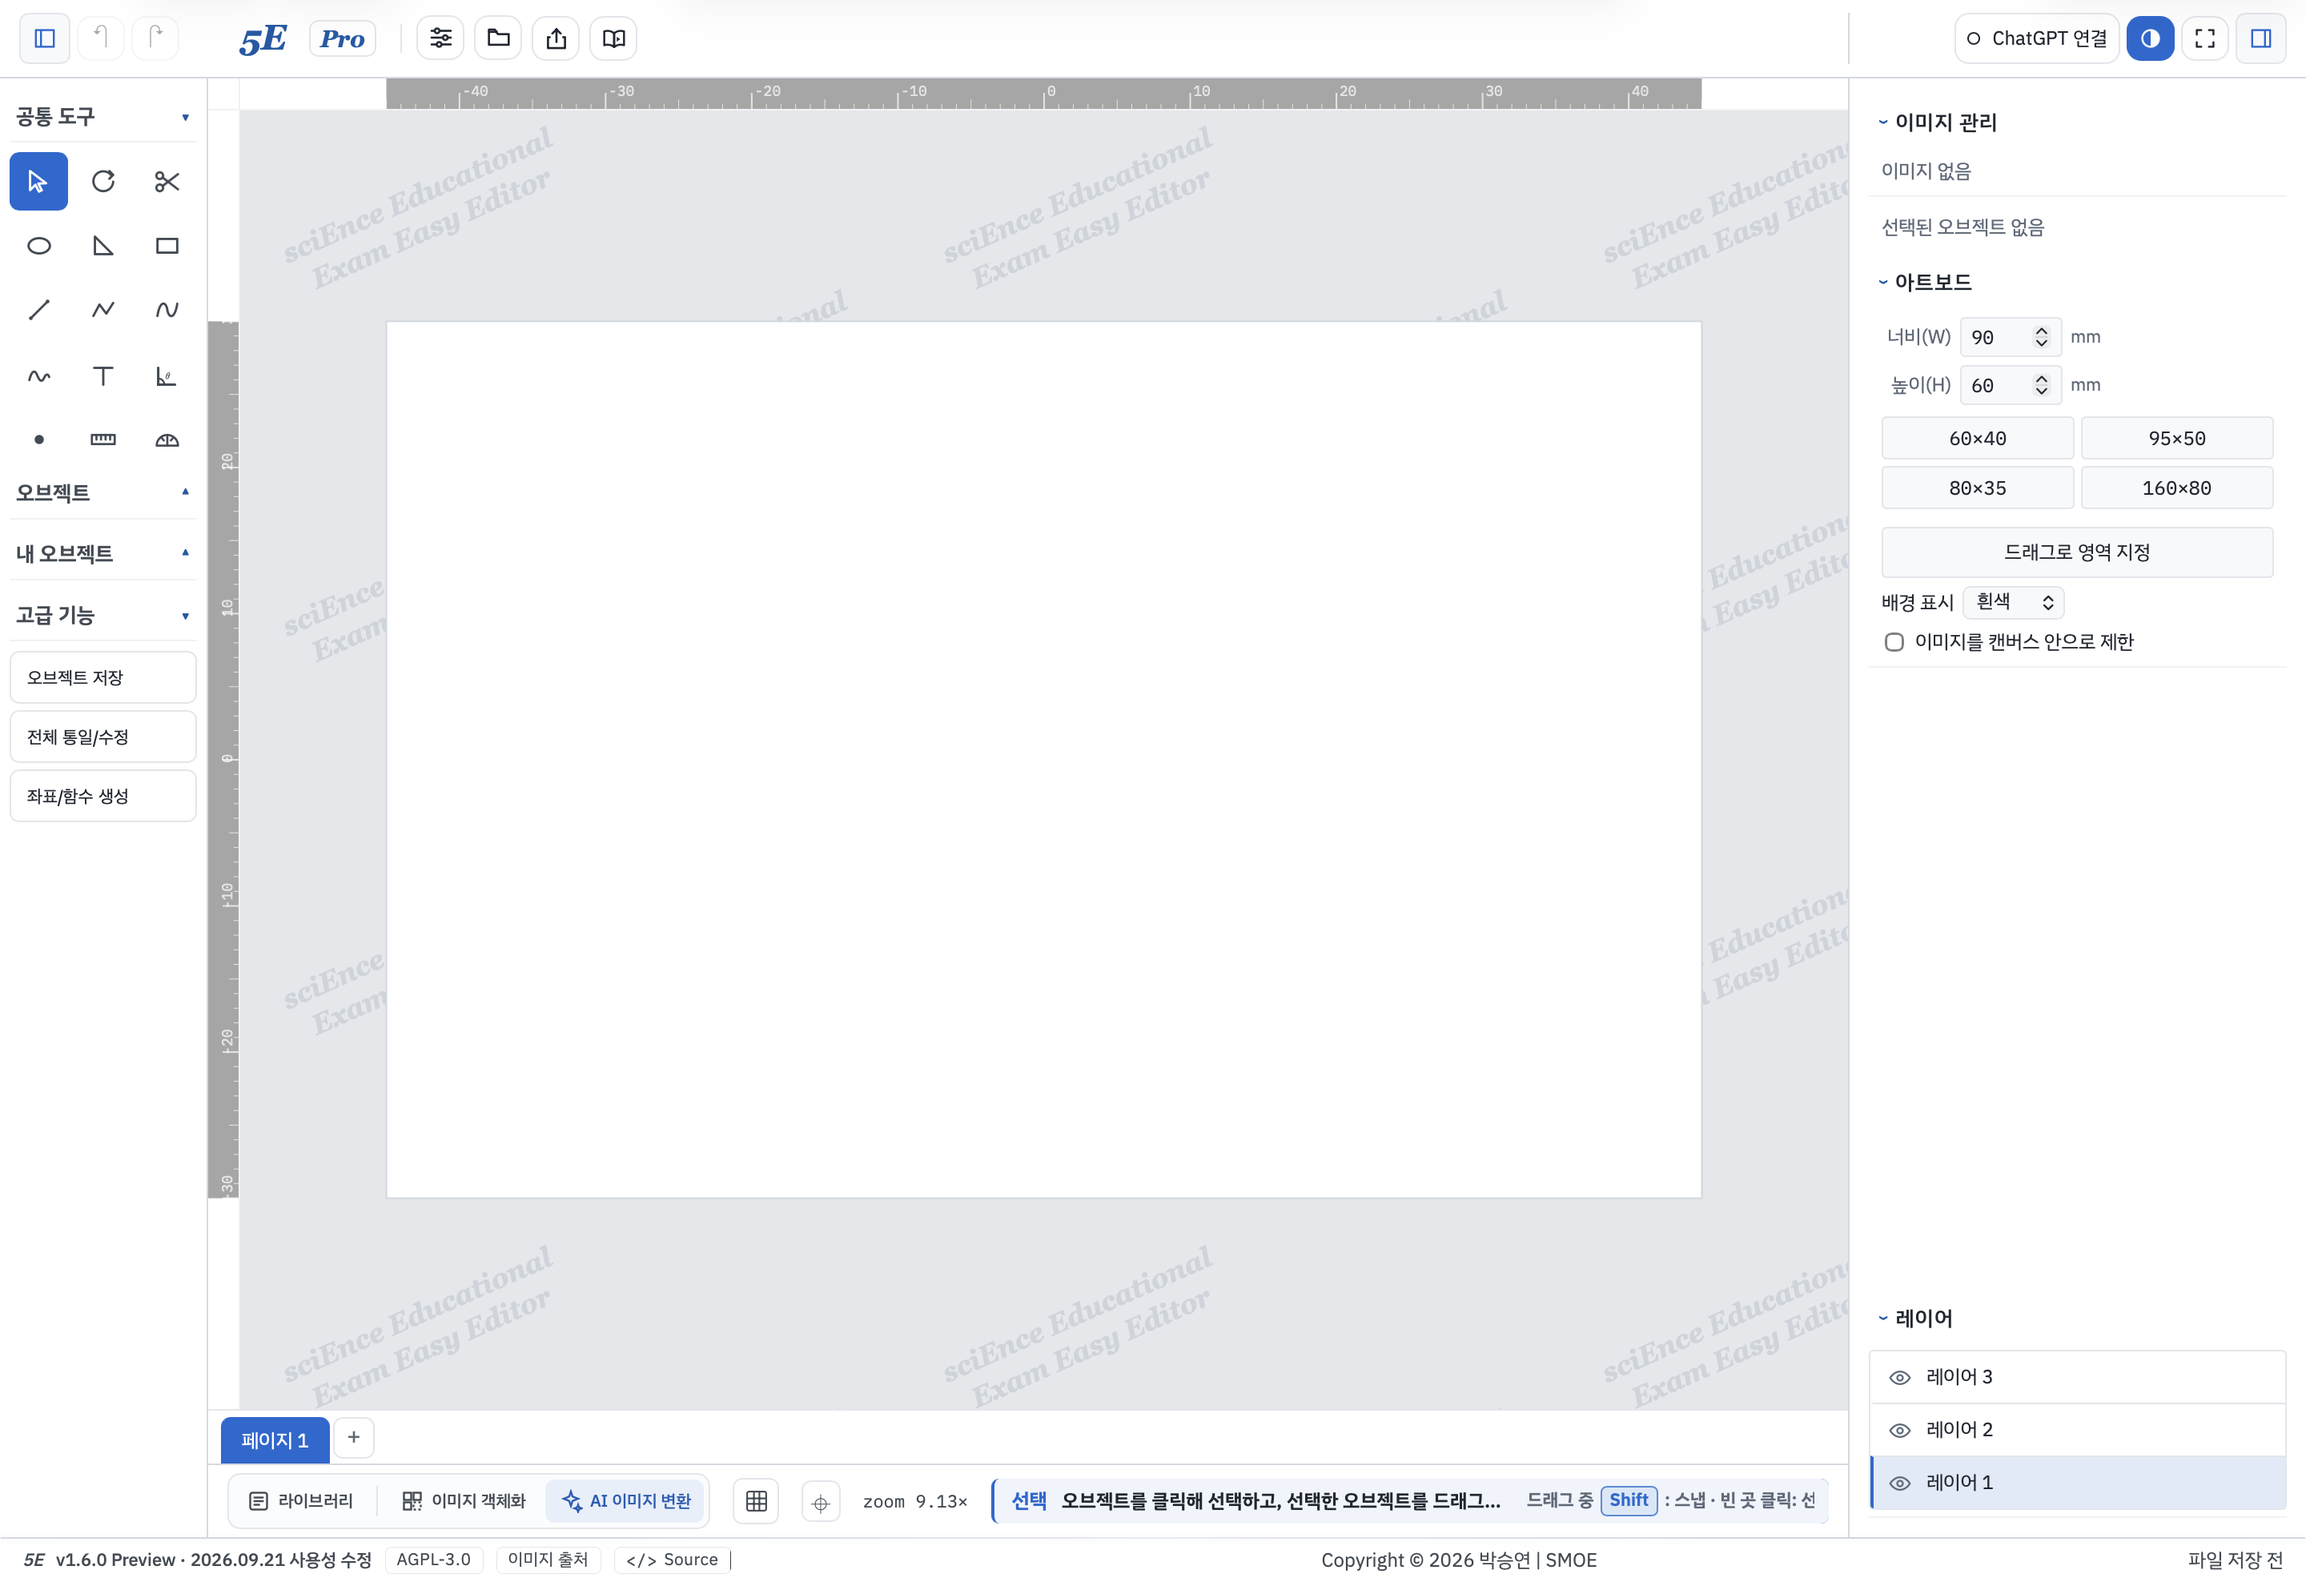
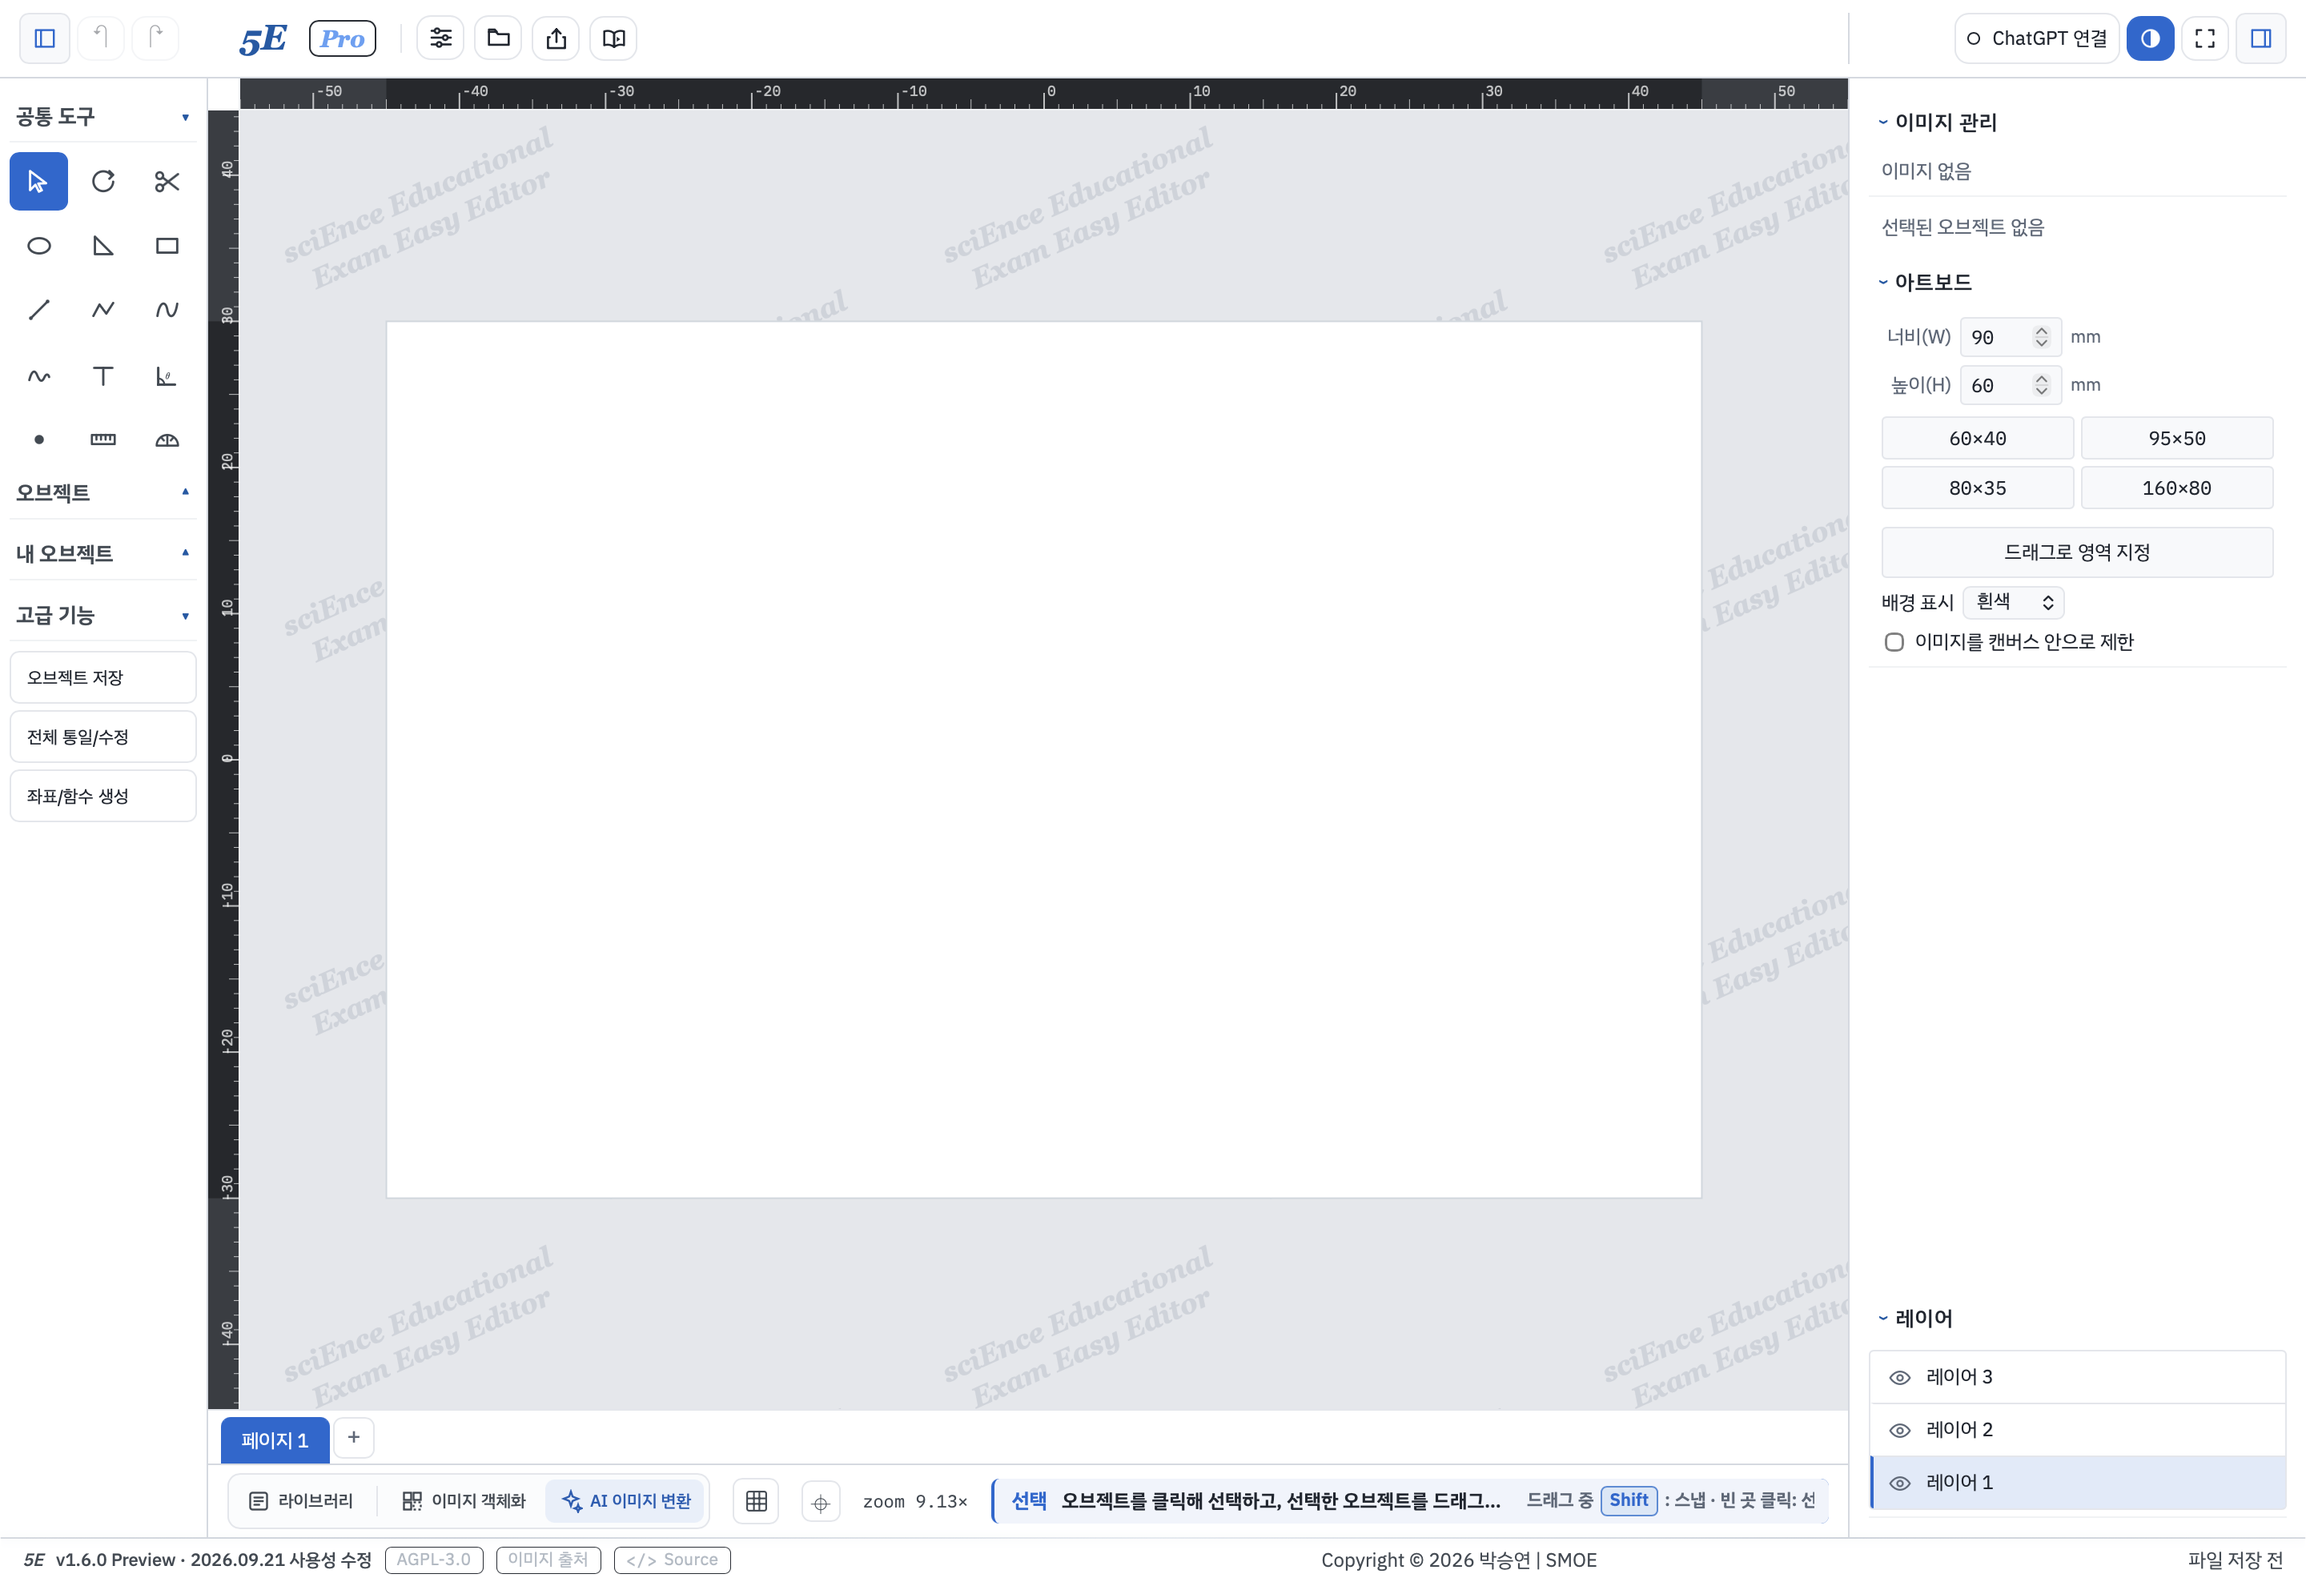
docs: record deployed preview verification evidence

Changed region(s): [[0.0625, 0.0, 0.8125, 0.8952]]

diff --git a/docs/REPAIR_LEDGER_0921.md b/docs/REPAIR_LEDGER_0921.md
@@ -26,7 +26,7 @@
 | M1 | 공유 단순화·3안·권한/만료/해제 보존 | 구현·검증 통과 |
 | M2 | 설정 명칭·ellipsis 제거·단축키 직접 진입 | 구현·검증 통과 |
 | M3 | 공식 도구 비교·충돌 방지 단축키·표시 일치 | 구현·검증 통과 |
-| R1 | 새 버전 표기·배포본 코드 일치·실제 URL QA | 배포 준비 |
+| R1 | 새 버전 표기·배포본 코드 일치·실제 URL QA | 배포 확인 완료 |
 
 ## 확인된 제한
 - Safari 웹의 저장 위치 선택은 브라우저 다운로드 설정에 좌우된다. 이름 확인 없이 자동 다운로드하지 않으며 지원 범위를 UI에 명시한다.
@@ -45,3 +45,12 @@
 
 ## 배포 기준
 `codex/preview-1.6.0`의 `/preview/`를 배포한다. 변경 모듈과 역방향 의존 경로의 캐시 키를 `1.6.0-preview-repair-0921`로 통일한다. 푸터의 2009 표기를 없애고 2026.09.21 사용성 수정으로 식별한다.
+
+## 배포 완료 증거
+- 제품 커밋: `f8a6a46c6ac59513f503a5be6ea87018d0a5e379`.
+- GitHub Pages build: built, error 없음. URL: https://www.5e.ai.kr/preview/
+- 변경된 제품 파일 33개 모두 서버 응답과 로컬 SHA-256 일치 (`evidence-0921/deployed-files.json`).
+- 쿼리 없는 실제 배포 URL에서 Safari 다크/라이트 가로 눈금자·인스펙터 경계, 저장 이름창/취소, 단축키 목록 재확인 PASS.
+- 같은 배포 URL에서 Chromium 1440/1024/768/375px + 패널 접기 PASS, 페이지 오류 0.
+- 배포 URL 실제 공유 PDF 크롭 연속 스크롤: 2/4쪽 확인, 페이지 오류 0.
+- 외부 계정 로그인 완료와 원격 공유 서버는 실제 계정/외부 전송 없이 fixture로 검증했다. 외부 서비스 지연까지 해결됐다는 의미는 아니다.
